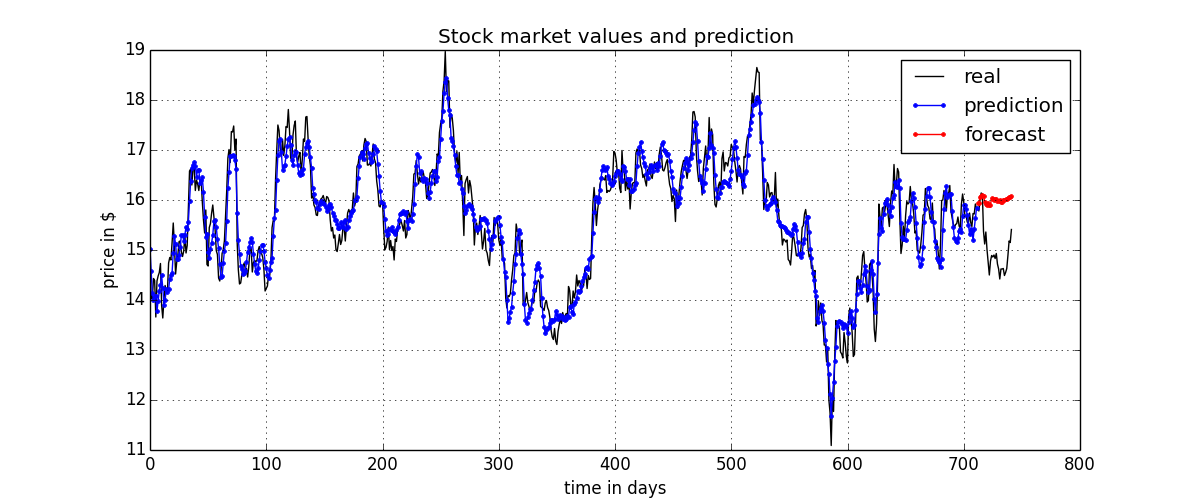
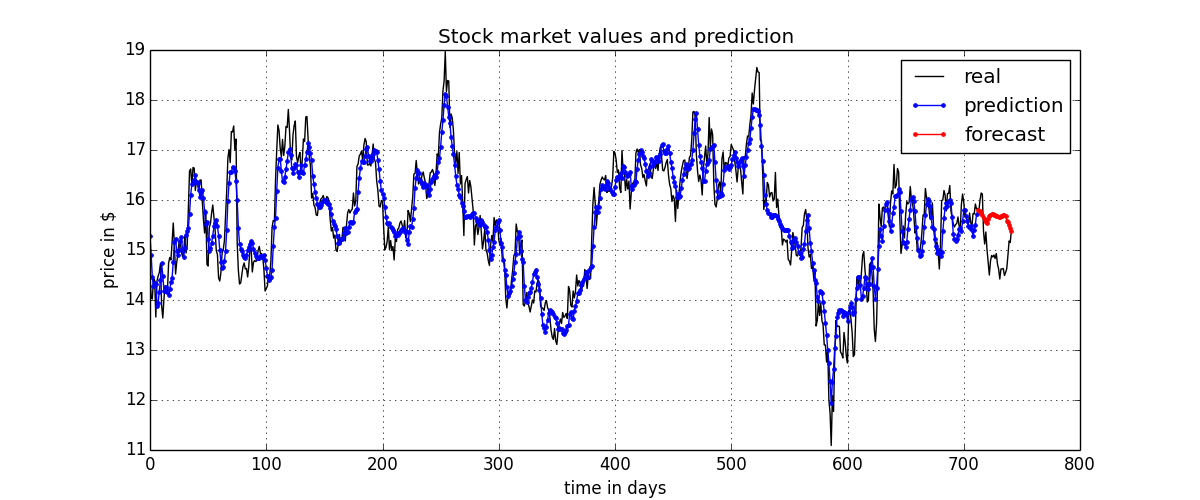
add optimized stock market prediction

diff --git a/Versuch_1/Program/b102_stockMarketPrediction_Optimization.py b/Versuch_1/Program/b102_stockMarketPrediction_Optimization.py
@@ -135,58 +135,72 @@ def plot_predicted_stockmarket(actual_data, prediction_training, prediction_fore
 df = pd.read_csv(resourceFolder + 'effectiveRates.csv')
 
 #Teilaufgabe 2:
-print_five_charts(df) #TODO remove comment
+#print_five_charts(df) #TODO remove comment
 
 yahoo_df = df.ix[:, 'YHOO']
 
 training_data_length = 650
 test_data_length = 30
 
+best_model = None
+best_mae = 999.0
+worst_mae = 0
 
-#initial values from script
-time_delay = 30
-c = 500.0
-epsilon = 0.6
+#for time_delay in range(25,35):
+for time_delay in range(25, 35):
 
-#optimized values from b102_stockMarketPrediction_Optimization.py
-time_delay = 25
-c = 400.0
-epsilon = 0.85
+    yahoo_cyclic_array = create_cyclic_data(yahoo_df, time_delay)
 
+    #test model with last 30 entries in stockmarket data
+    test_data = yahoo_cyclic_array[-test_data_length:, :]
+    test_data_out = test_data[:, -1]
+    #print(yahoo_cyclic_array)
 
+    for c in np.arange(400.0, 500.0, 5):
+        for epsilon in np.arange(0.1, 0.9, 0.05):
+            model = train_model(training_data=yahoo_cyclic_array, training_data_length=650, svr_c=c, svr_epsilon=epsilon)
 
-#Teilaufgabe 3-6:
-yahoo_cyclic_array = create_cyclic_data(yahoo_df, time_delay)
-#print(yahoo_cyclic_array)
+            #calculate mae
+            predicted_data_out = predict_stockmarket(test_data, model, time_delay)
 
-model = train_model(training_data=yahoo_cyclic_array, training_data_length=650, svr_c=c, svr_epsilon=epsilon)
+            mae = metrics.mean_absolute_error(test_data_out, predicted_data_out)
+            # getting mean absolute deviation (MAD) according to method from script
+            #mad = 1.0/len(predicted_data_out)*np.sum(np.abs(predicted_data_out-test_data_out))
 
-print "*"*10, "predict stock market(svr_c=%s, svr_epsilon=%s)" % (c, epsilon), "*"*10
+            print "predict stock market(time_delay=%s, svr_c=%s, svr_epsilon=%s)" % (time_delay, c, epsilon), \
+                "-> mae =", mae
 
-#test model with last 30 entries in stockmarket data
-test_data = yahoo_cyclic_array[-test_data_length:, :]
+            if mae < best_mae:
+                best_mae = mae
+                best_params = {"time_delay": time_delay, "svr_c": c, "svr_epsilon":epsilon }
+                best_prediction = predicted_data_out
+                best_model = model
 
-#calculate mae
-predicted_data_out = predict_stockmarket(test_data, model, time_delay)
-test_data_out = test_data[:, -1]
-
-mae = metrics.mean_absolute_error(test_data_out, predicted_data_out)
-# getting mean absolute deviation (MAD) according to method from script
-#mad = 1.0/len(predicted_data_out)*np.sum(np.abs(predicted_data_out-test_data_out))
-print "  mae =", mae
-
-
+            if mae > worst_mae:
+                worst_mae = mae
 
 #---------------
 #generate output
 #---------------
 #print prediction
-print "*"*15, "compare prediction and target", "*"*15
-print "prediction: (%d elements)\n" % (len(predicted_data_out)), predicted_data_out
-print "target: (%d elements)\n" % (len(predicted_data_out)), test_data_out
-print "Mean Absolute Error: ", mae
+print "\n\n", "*"*15, "compare prediction and target", "*"*15
+print "prediction: (%d elements)\n" % (len(best_prediction)), best_prediction
+print "target: (%d elements)\n" % (len(best_prediction)), test_data_out
+print "Mean Absolute Error: ", best_mae
+print "best params: ", best_params
+print "Worst MAE: ", worst_mae
 
 #plot prediction
-prediction_on_training_data = model.predict(yahoo_cyclic_array[:(len(df)-test_data_length), :-1])
+prediction_on_training_data = best_model.predict(yahoo_cyclic_array[:(len(df)-test_data_length), :-1])
 
-plot_predicted_stockmarket(yahoo_df, prediction_on_training_data, predicted_data_out)
+plot_predicted_stockmarket(yahoo_df, prediction_on_training_data, best_prediction)
+
+
+"""
+result of optimization:
+best Mean Absolute Error:  0.689365693101
+best params:  {'svr_c': 400.0, 'svr_epsilon': 0.8500000000000002, 'time_delay': 25}
+Worst MAE:  1.68125860567
+
+~10 Minuten
+"""

diff --git a/Versuch_1/Program/energyStatistics.py b/Versuch_1/Program/energyStatistics.py
@@ -85,6 +85,6 @@ if __name__ == '__main__':
 
     draw_separate_boxplots()
 
-    #draw_combined_boxplots()
-    plt.show()
+    draw_combined_boxplots()
+    #plt.show()
 
